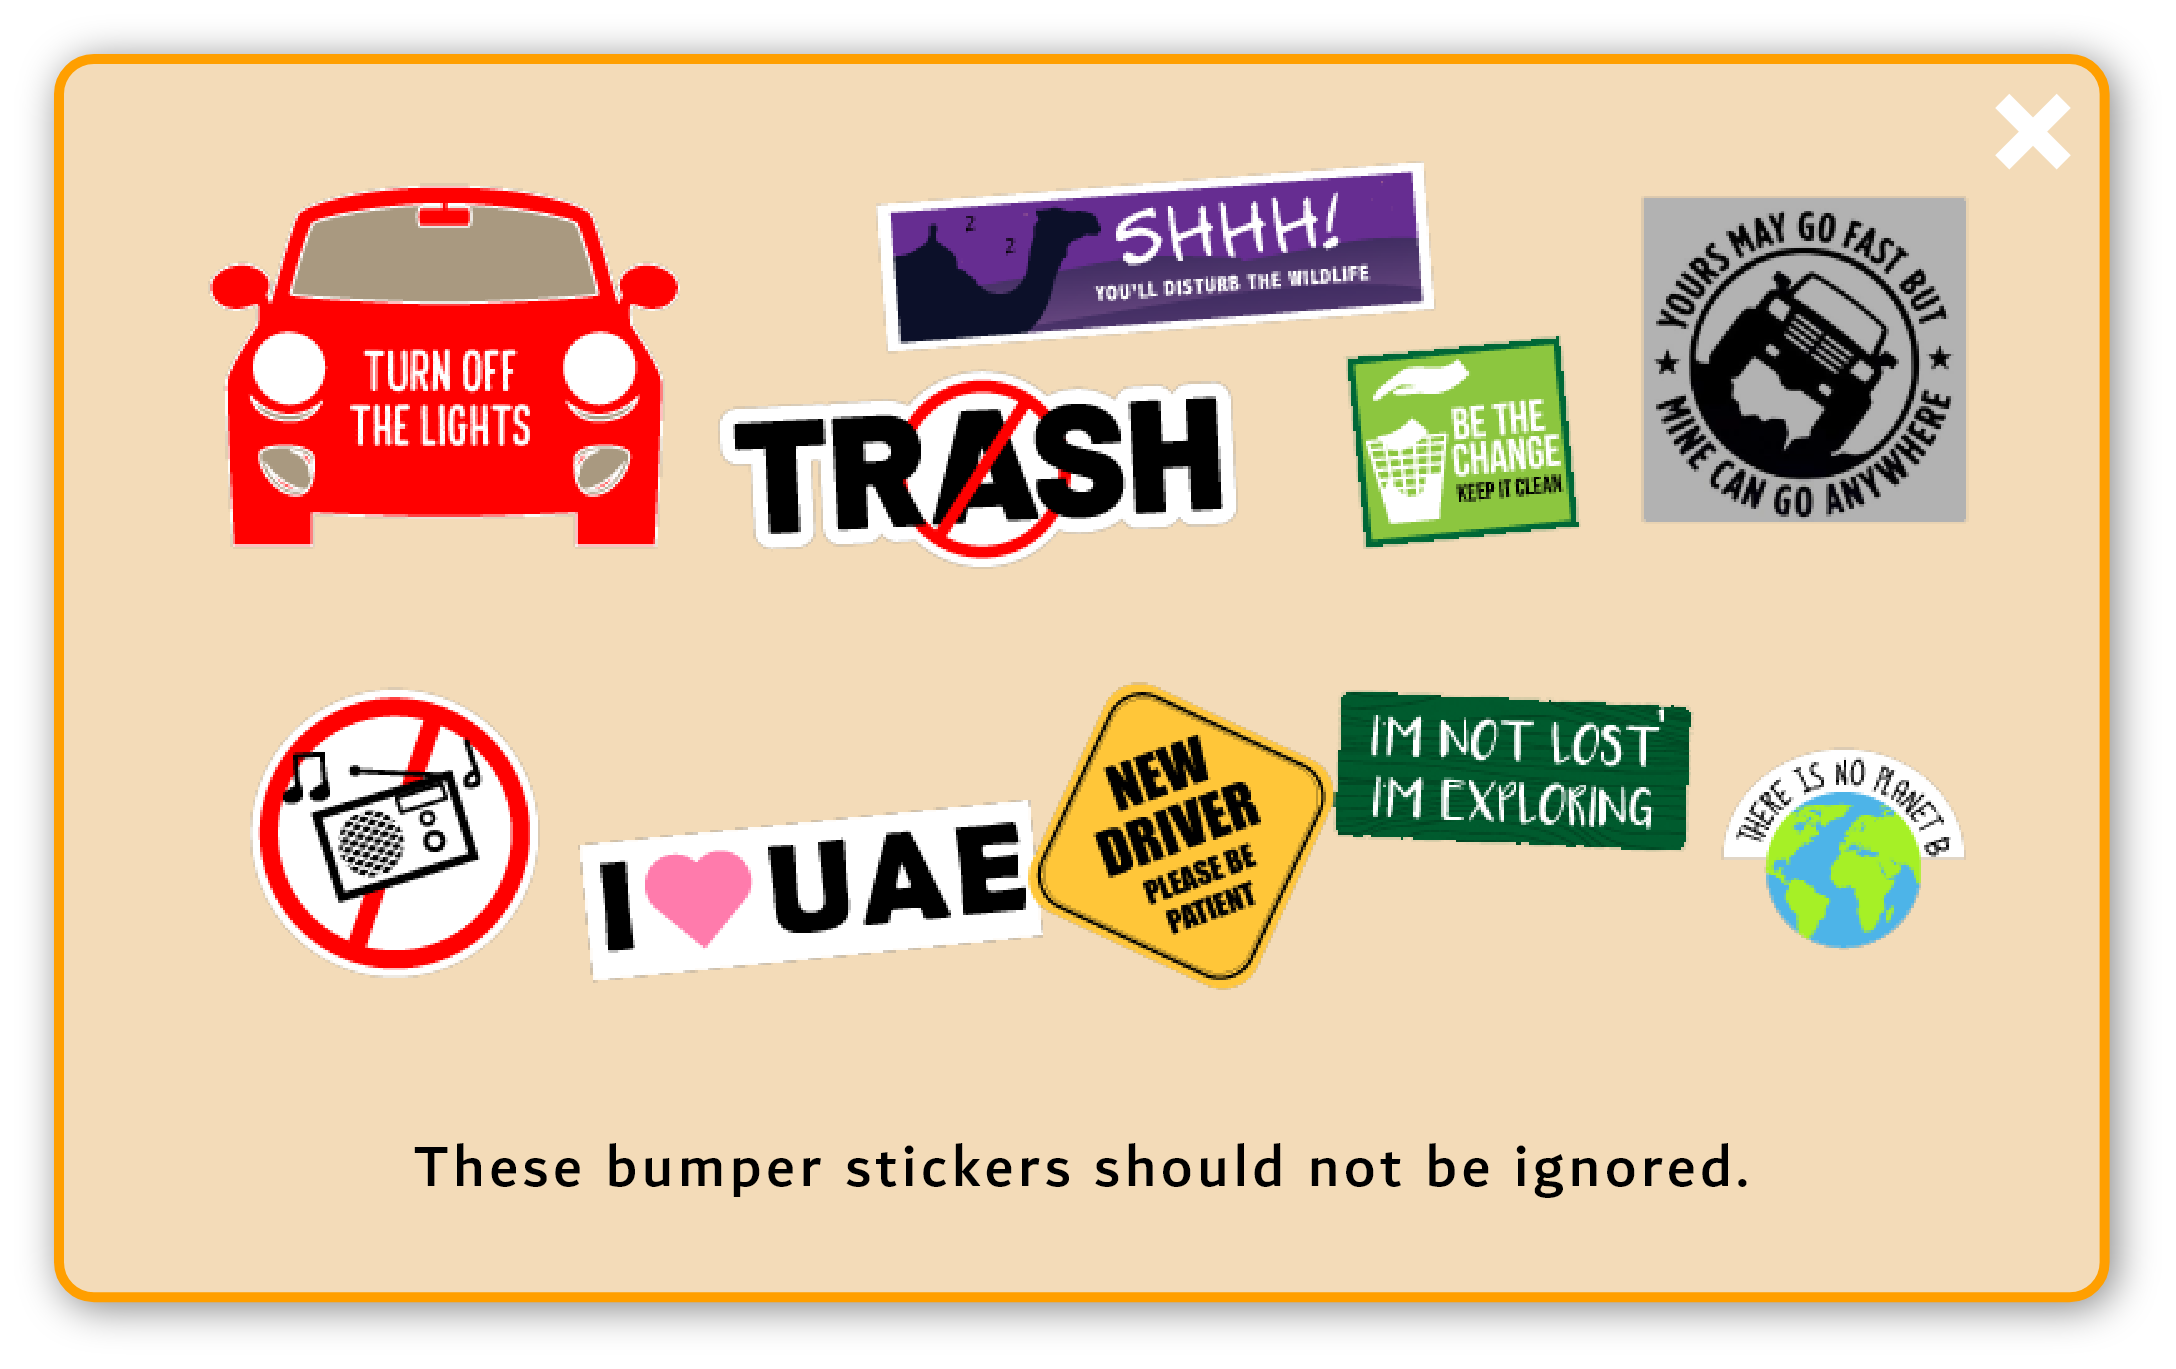
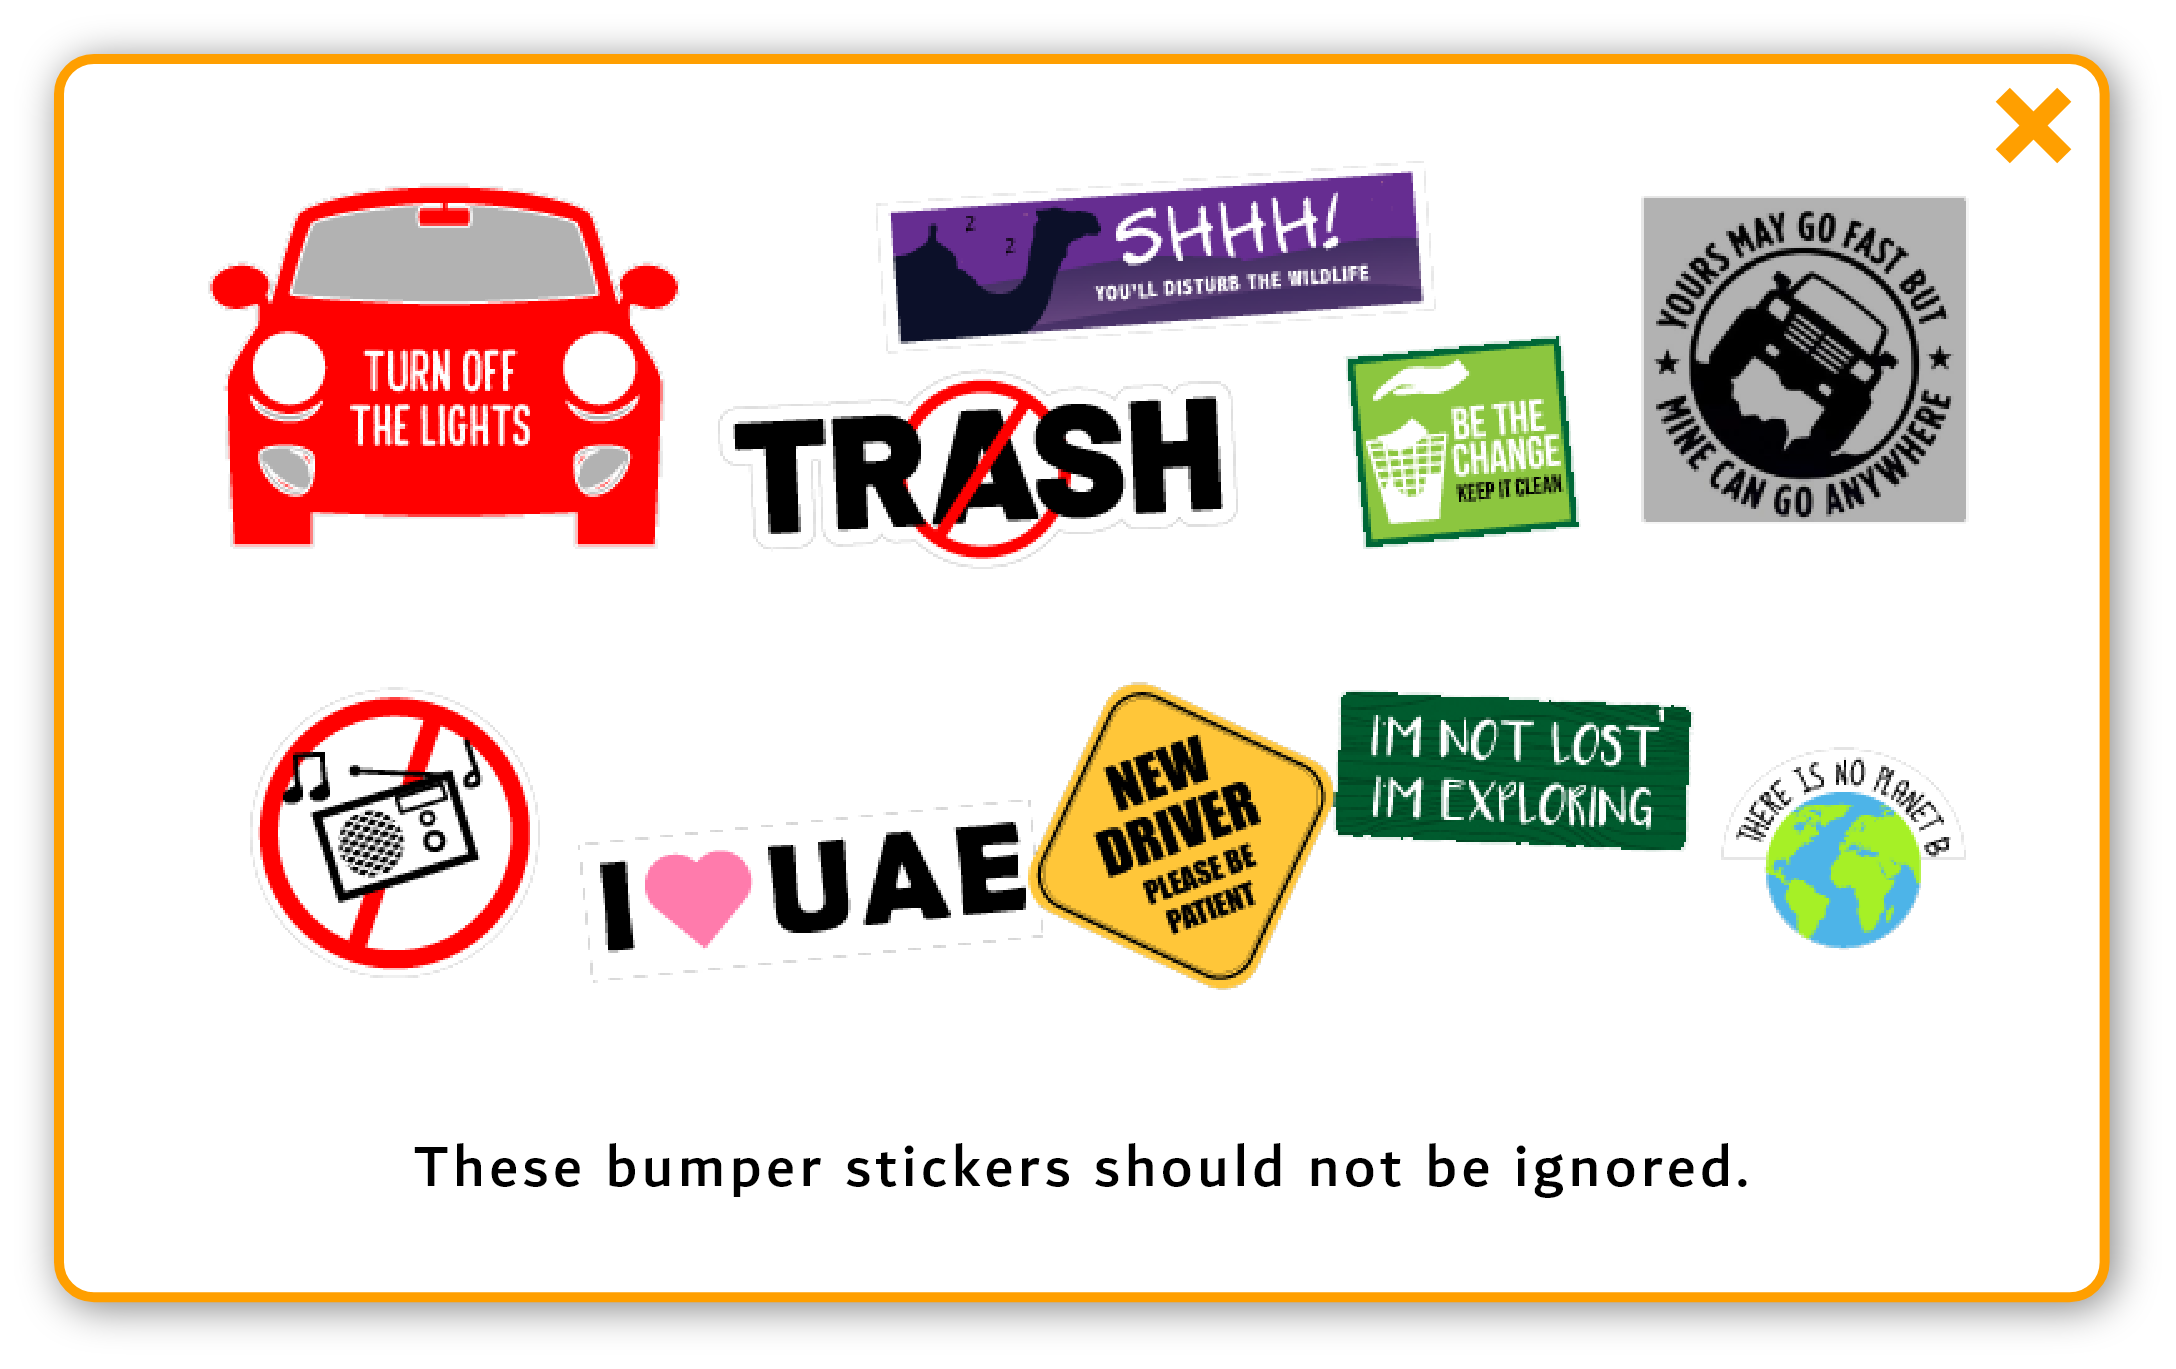
updated design and other fixes

diff --git a/client/src/components/gameplay/Scene2.js b/client/src/components/gameplay/Scene2.js
@@ -15,6 +15,7 @@ import Map from '../../img/map.svg'
 
 import note from './../../img/note.png'
 import xclose from './../../img/x.svg'
+import teleNo from './../../img/teleNo.png'
 
 
 import TouchPoint1 from '../touchpoints/scene2/Touchpoint1'
@@ -29,7 +30,7 @@ import paper from '../../audio/paper.mp3'
 import door from '../../audio/door.mp3'
 import correct from '../../audio/correct.mp3'
 
-import hint from '../../img/welcome.svg'
+import hint from '../../img/welcome.png'
 
 import Music2 from '../../audio/Music2'
 
@@ -745,7 +746,7 @@ function TouchPoint6({ position, color, onClick }) {
   const [hovered, set] = useState(false)
   const [showMessage, setShowMessage] = useState(false);
 
-  const [show, setShow] = useState(true);
+  const [show, setShow] = useState(false);
   
   // function that checks the number of boxes collected
   setInterval(function(){
@@ -757,6 +758,7 @@ function TouchPoint6({ position, color, onClick }) {
   }, 1000);
   
   // useEffect(() => void (document.body.style.cursor = hovered ? 'pointer' : 'auto'), [hovered])
+ 
   return (
       <mesh 
           scale={[1, 2, 1, 1]}
@@ -783,11 +785,17 @@ function TouchPoint6({ position, color, onClick }) {
                       // dismissible
                       onClose={() => setShowMessage(false)}
                       >
+                        <div style={{ display: show? 'block' : 'none' }} >
                       {/* <button className="close" onClick={() => setShowMessage(false)}> */}
                          <img onClick={() => setShowMessage(false)} style={{position: 'absolute', top: '-194px', right: '-141px', transform: 'scale(0.5)', cursor: 'pointer'}} src={xclose} /> 
                          {/* </button> */}
                       <Telephone />
-                      
+                      {/* {tele} */}
+                      </div>
+                      <div style={{ display: show? 'none' : 'block', transform: 'scale(0.6)', position: 'absolute', top: '-145px', left: '-513px' }} >
+                        <img src={teleNo} />
+                        <button onClick={() => setShowMessage(false)} style={{ position: 'absolute', right: '39px', top: '36px', opacity: '0', cursor: 'pointer' }}> XX</button>
+                      </div>
                       </Alert>
                   </CSSTransition>
               </Container>

diff --git a/client/src/App.css b/client/src/App.css
@@ -886,7 +886,7 @@ h1 span {
   width: 0px;
 }
 .alert-inside6 {
-  background-color: rgba(230, 206, 166, 0.9);
+  background-color: rgba(255, 255, 255, 1);
   border-radius: 20px;
   border-style: solid;
   border-width: thick;
